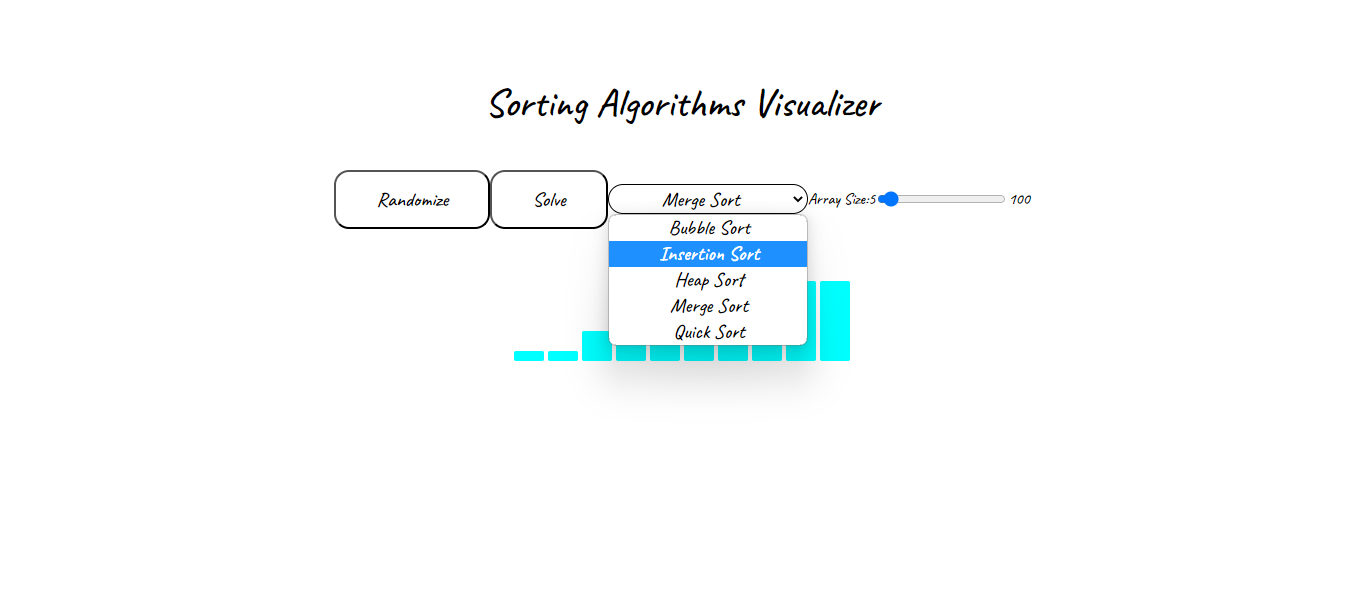
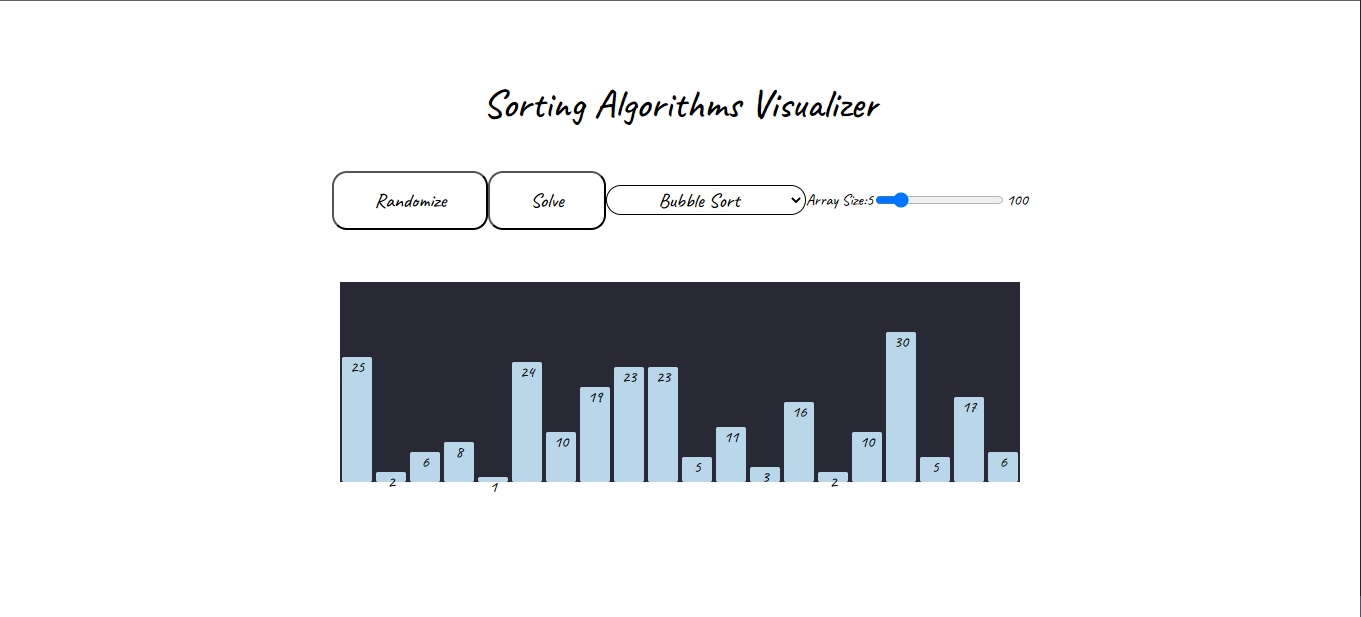
fix the issue in the merge sort "Swapping the inner numbers inside bars".

diff --git a/app.js b/app.js
@@ -82,7 +82,7 @@ function sleep(ms) {
   return new Promise((resolve) => setTimeout(resolve, ms));
 }
 
-//Bubble Sort
+//Bubble Sort implementation`1
 async function bubbleSort(array) {
   let bars = document.getElementsByClassName("bar");
   for (let i = 0; i < array.length; i++) {
@@ -220,12 +220,9 @@ async function mergeSort(arr) {
       arr[k] = right[j];
       j++;
     }
+    bars[k].innerHTML = arr[k];
     bars[k].style.height = arr[k] * heightFactor + "px";
     bars[k].style.backgroundColor = "#bad7e9";
-    if (k + arr.length < bars.length) {
-      bars[k + arr.length].style.height = arr[k] * heightFactor + "px";
-      bars[k + arr.length].style.backgroundColor = "#bad7e9";
-    }
     await sleep(speedFactor);
     k++;
   }
@@ -236,6 +233,7 @@ async function mergeSort(arr) {
     await sleep(speedFactor);
     i++;
     k++;
+    console.log("I");
   }
   while (j < right.length) {
     arr[k] = right[j];
@@ -244,6 +242,7 @@ async function mergeSort(arr) {
     await sleep(speedFactor);
     j++;
     k++;
+    console.log("J");
   }
   for (let k = 0; k < bars.length; k++) {
     bars[k].style.backgroundColor = "#bad7e9";
